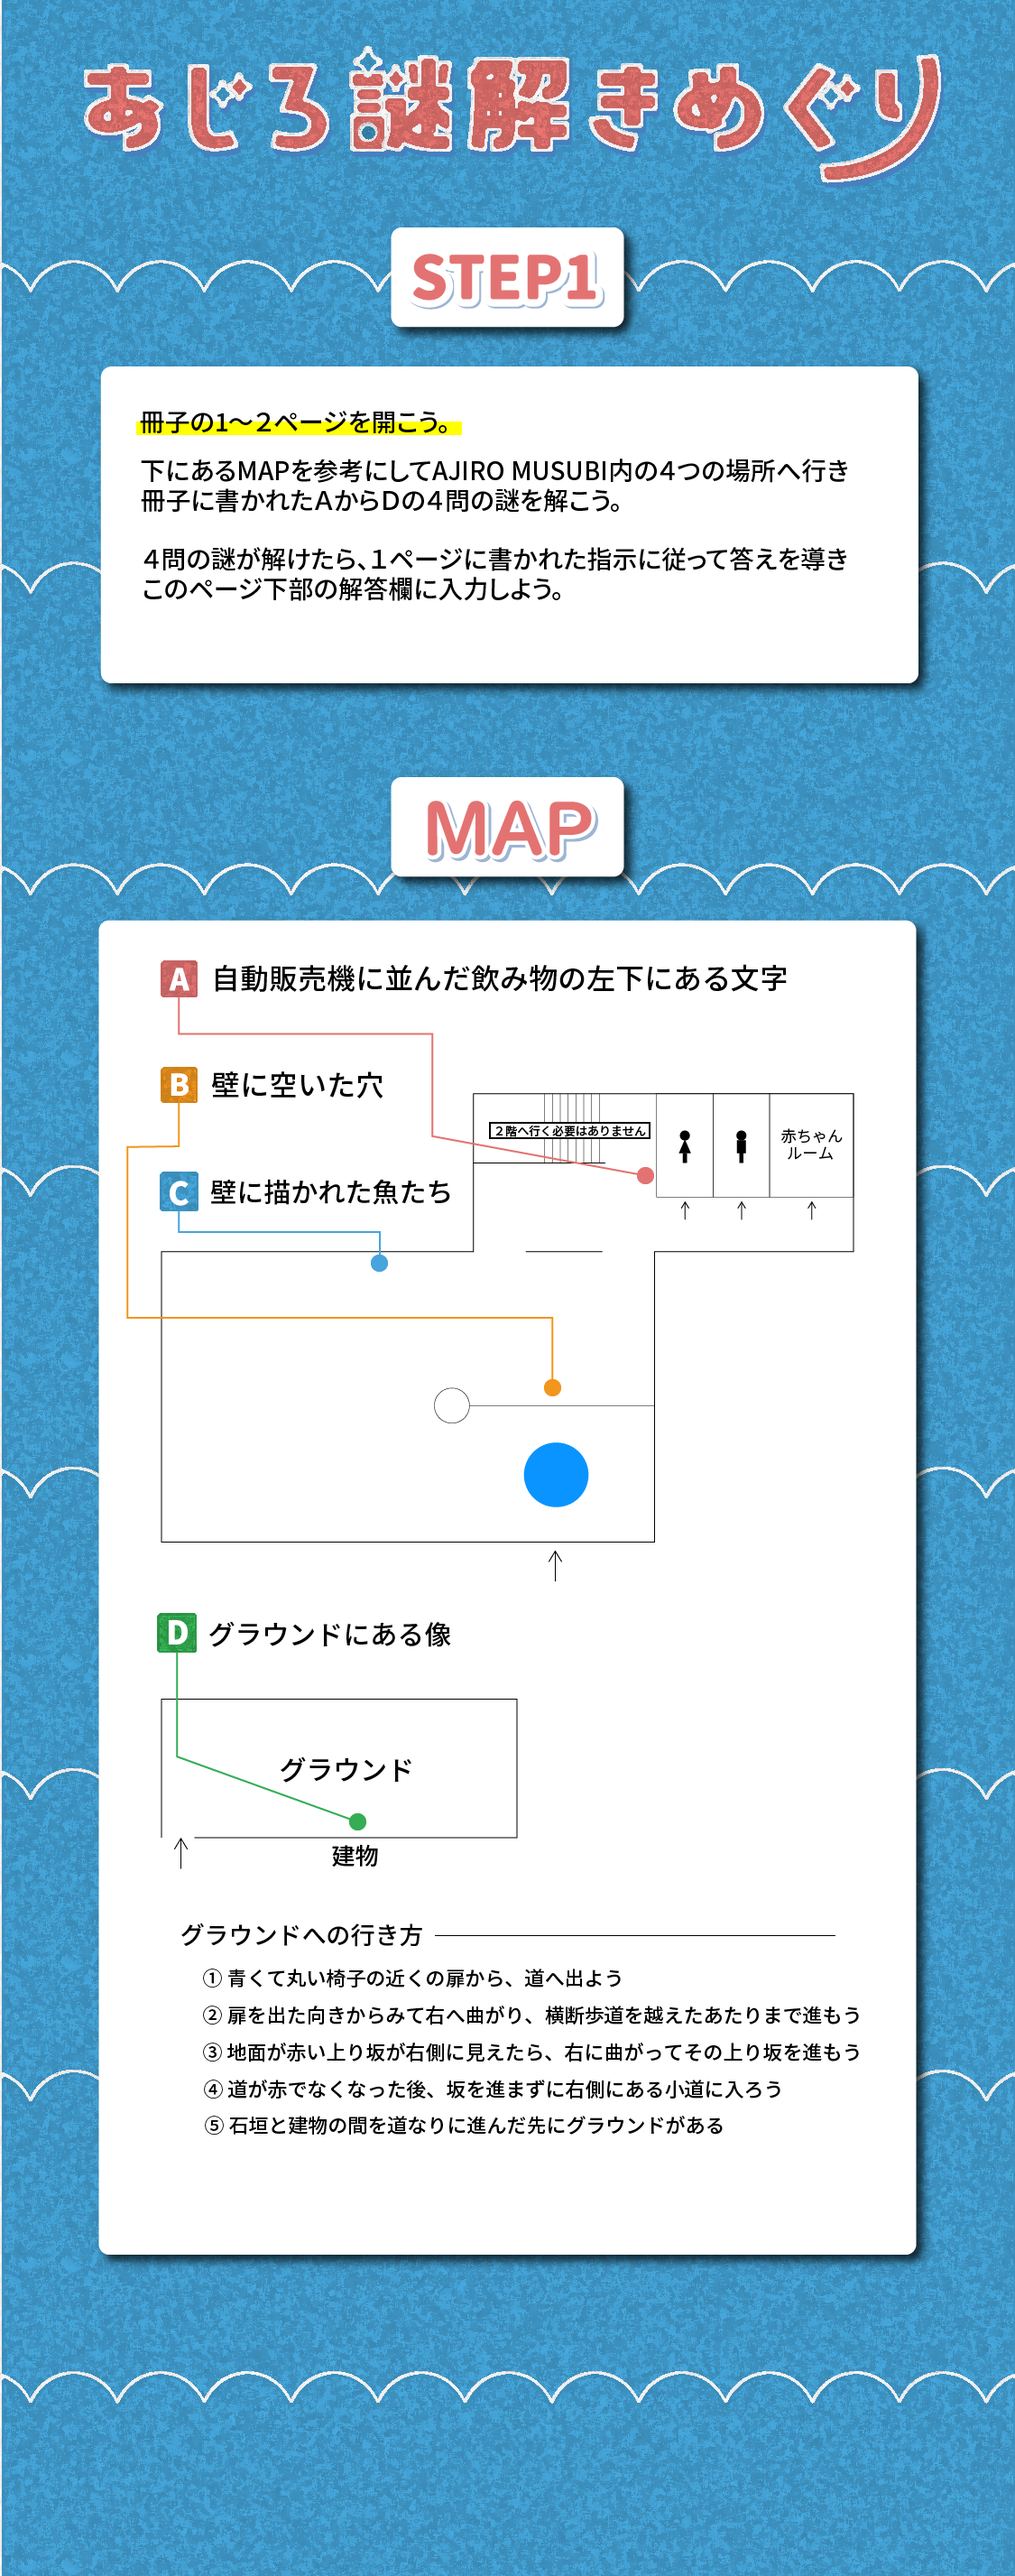
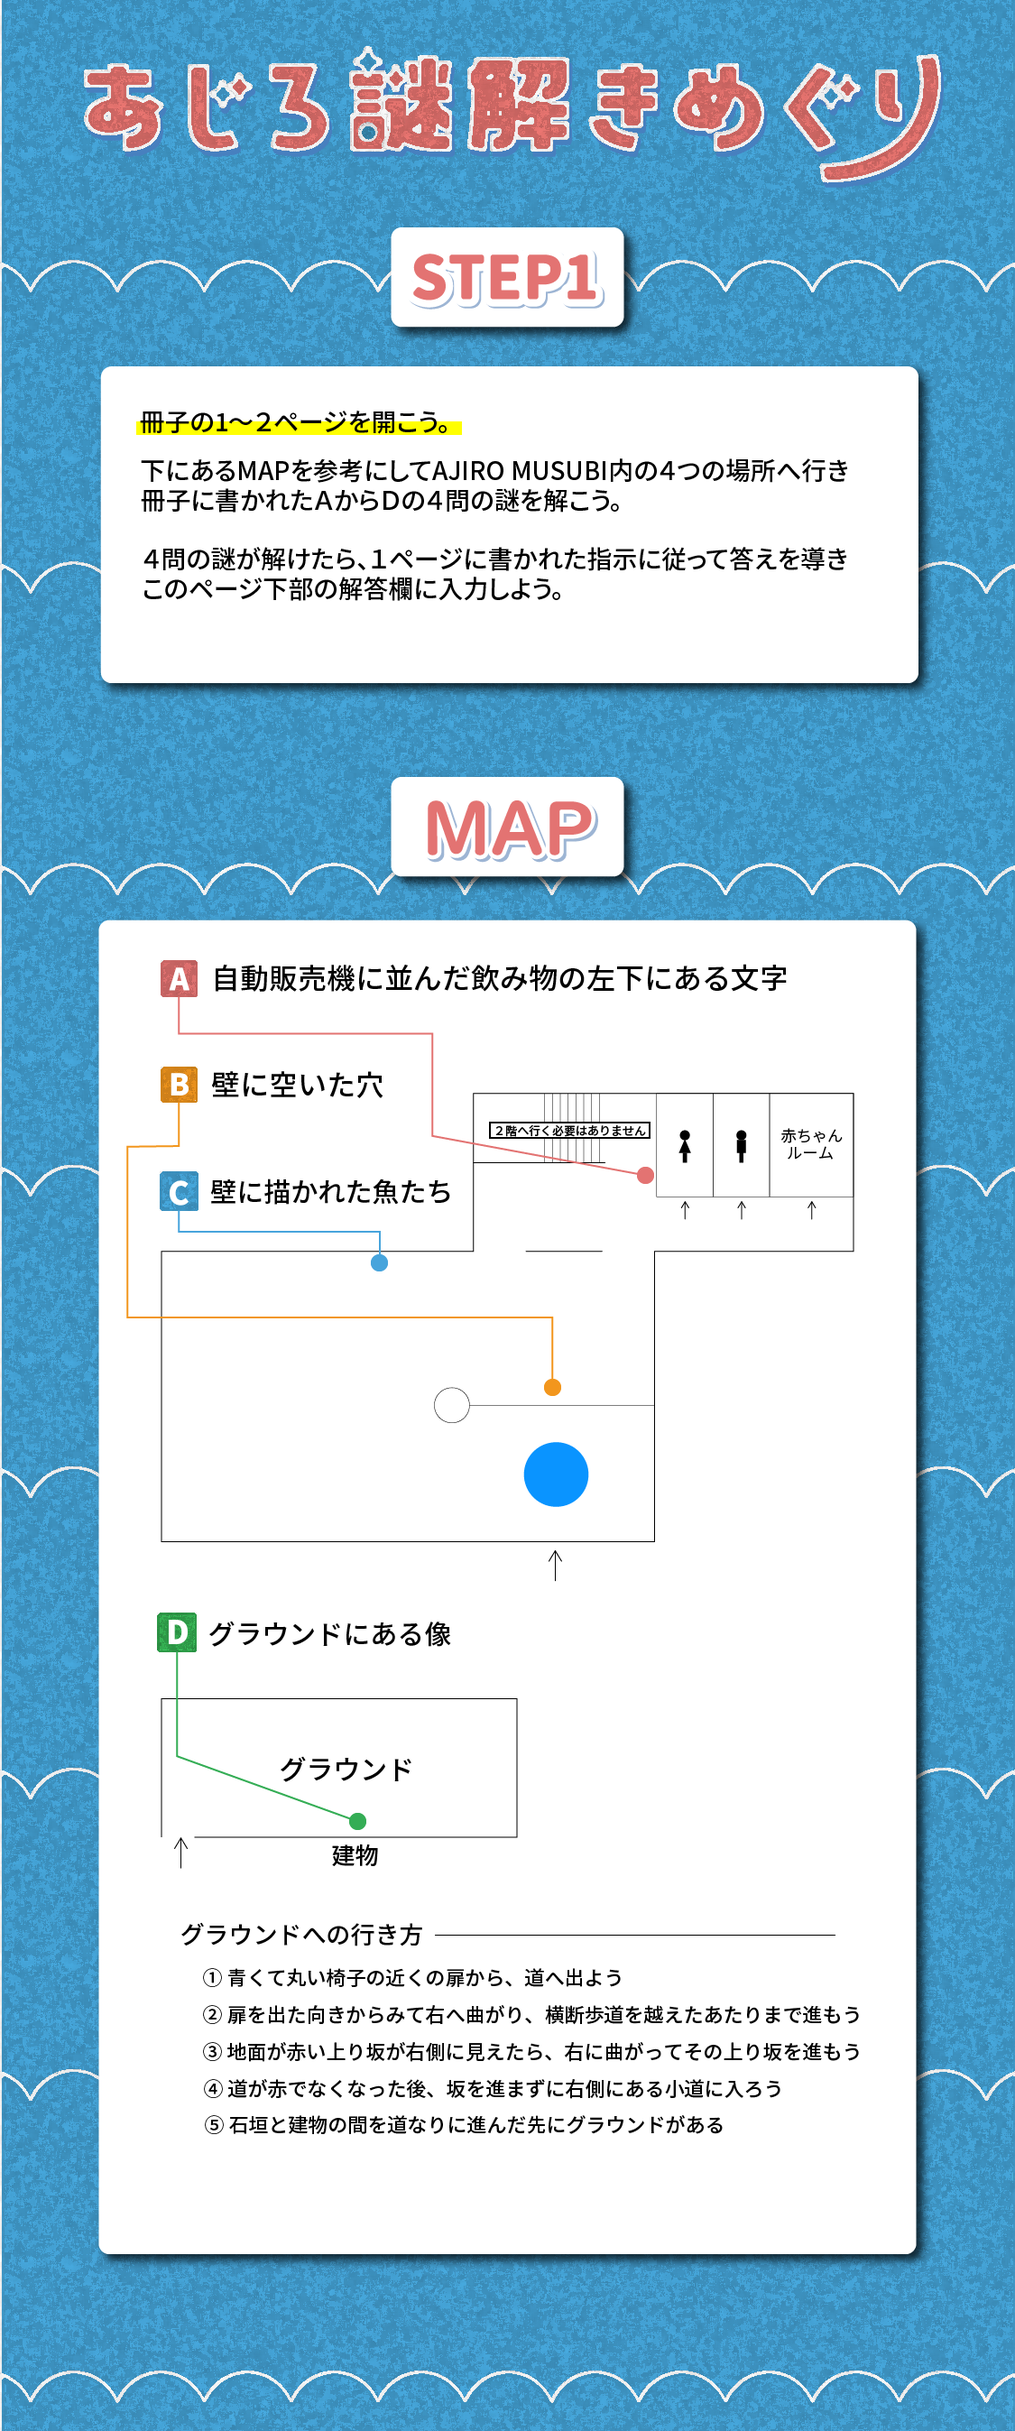
背景修正

Changed region(s): [[0.0, 0.0, 1.0, 1.0], [0.4978, 0.5301, 0.5911, 0.6236], [0.7156, 0.4365, 0.84, 0.4989]]

diff --git a/style.css b/style.css
@@ -10,35 +10,31 @@ body {
 
 img {
     width: 100%;
+    margin: 0;
     display: block;
 }
 
 .button_img {
-    height: 30px;
-    width: calc(4 * 100%);
-    aspect-ratio: 4 / 1;
+    height: 40px;
+    width: 105px
 }
 
 .button {
     height: 30px;
     width: 200px;
-    /* border: solid black 1px; */
     margin: 15px auto 0;
-    /* background-color: #2c9cc7; */
-    /* color: white; */
     text-decoration: none;
-    /* border-radius: 10px; */
-
     display: flex;
     justify-content: center;
     align-items: center;
 }
 
 .section {
-    /* margin: 0;
-    padding: 0; */
+    margin: 0;
+    padding: 10px 0 30px;
+    /* height: 60px; */
     display: block;
-    background-image: url(img/blue.jpg);
+    background-image: url(img/blue.png);
 }
 
 input {

diff --git a/start.html b/start.html
@@ -10,10 +10,10 @@
 
 <body>
     <div class="img">
-        <img src="img/start_img.png" alt="タイトル画像">
+        <img src="img/start.png" alt="タイトル画像">
     </div>
     <div class="section">
-        <a href="step1.html" class="button"><img src="img/start.png" alt="" class="button_img"></a>
+        <a href="step1.html" class="button"><img src="img/start_btn.png" alt="" class="button_img"></a>
     </div>
 </body>
 
